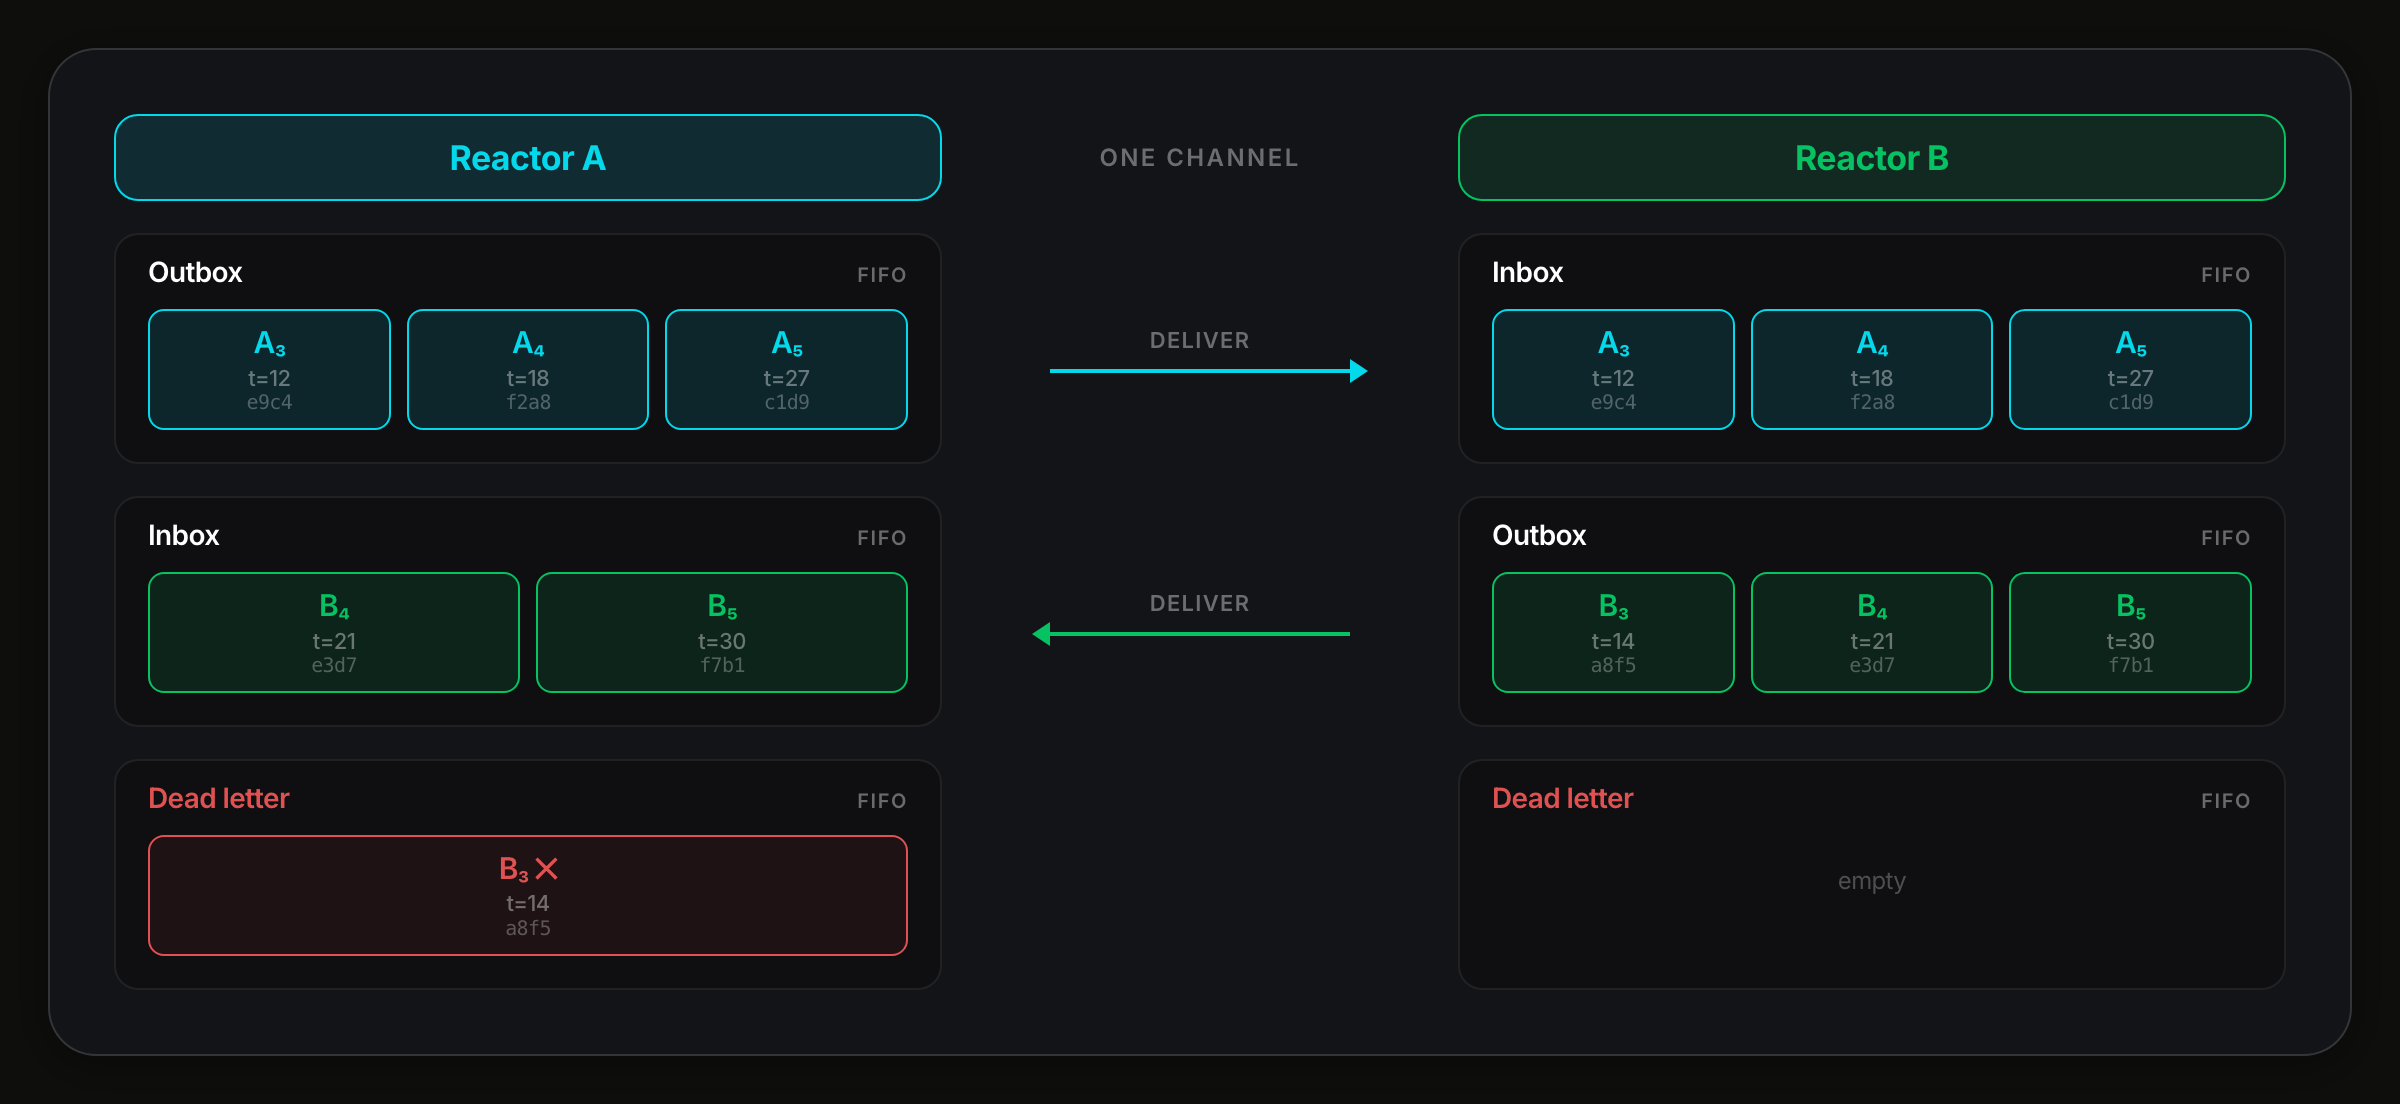
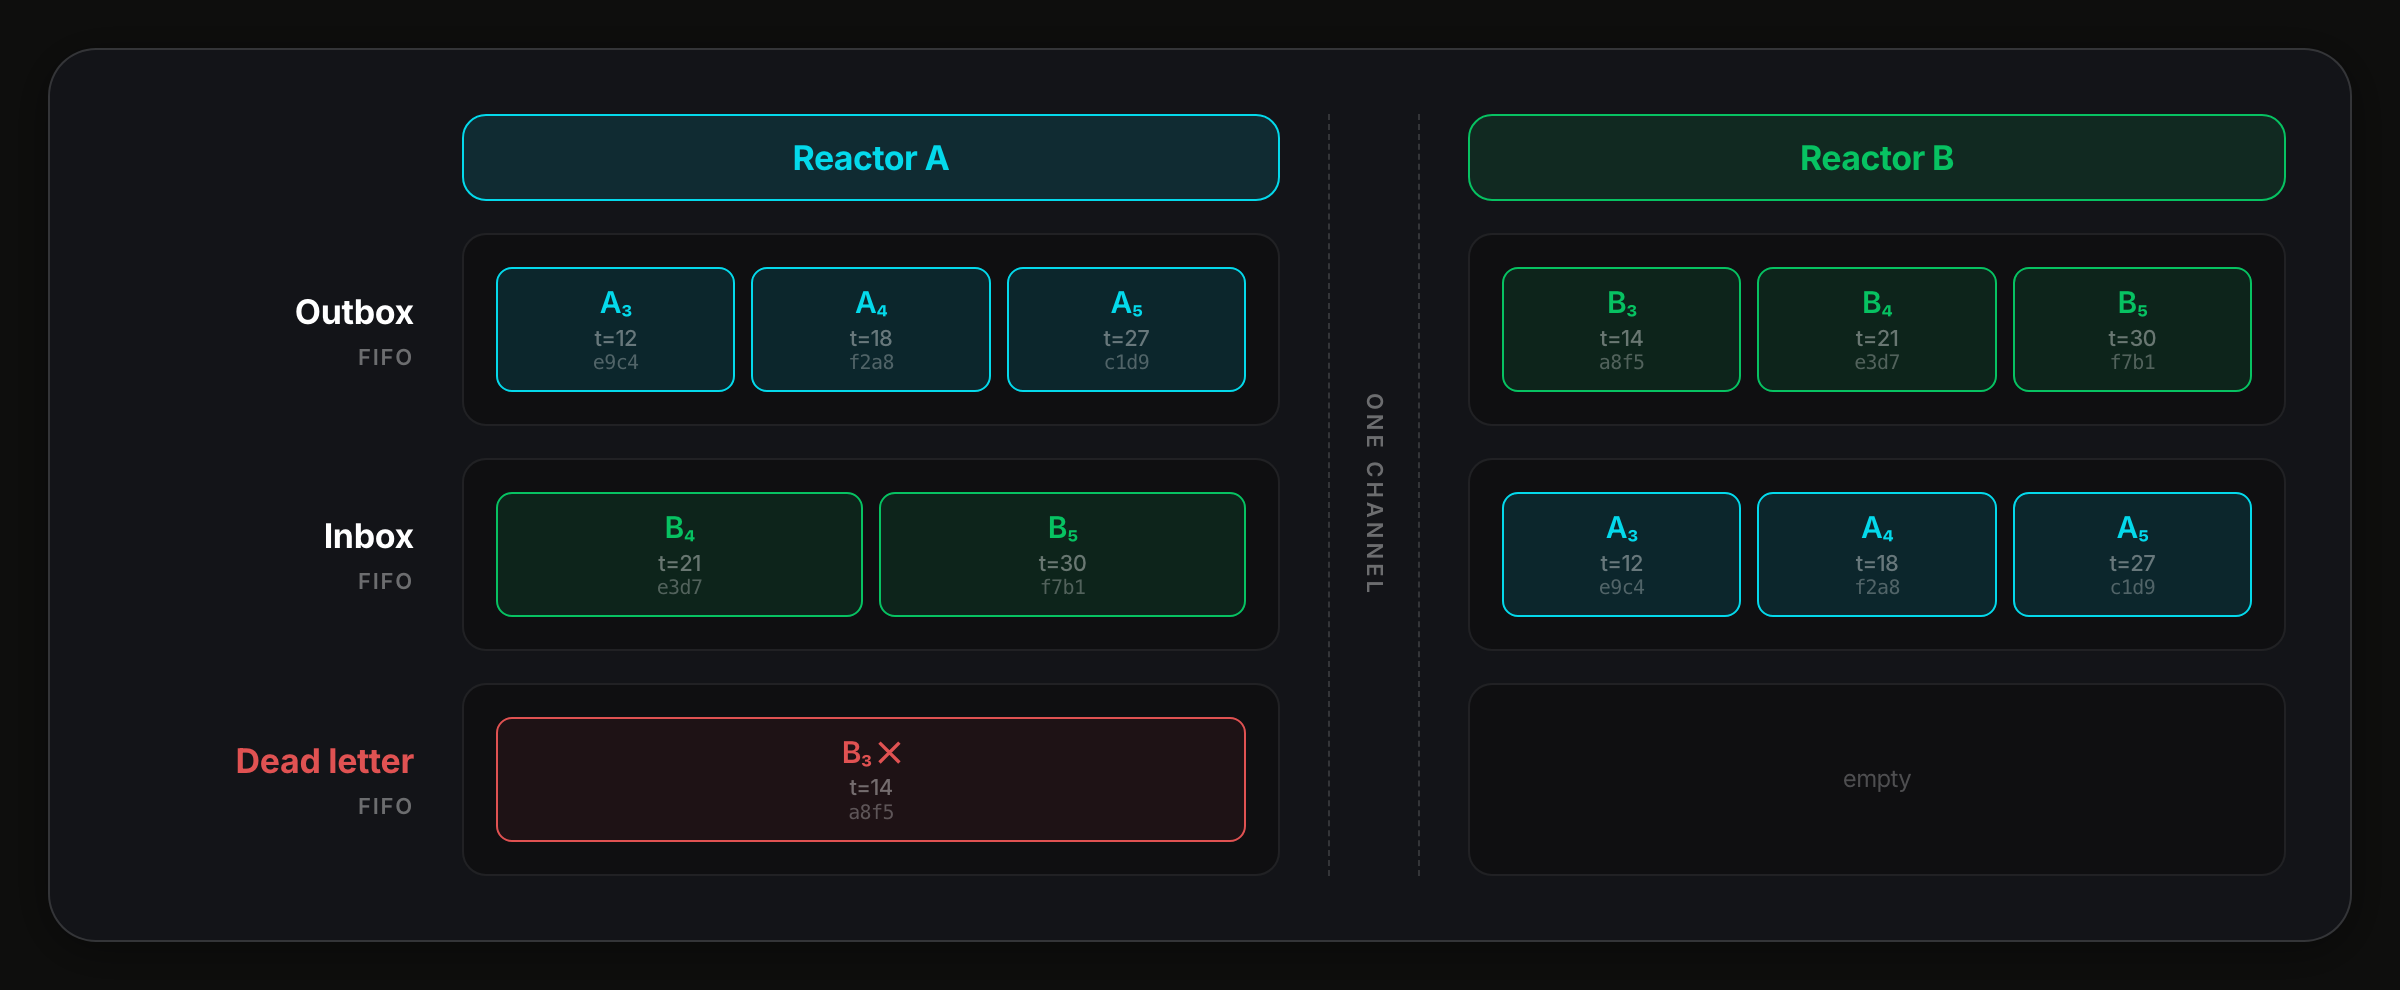
rebuild: mailbox kinds named once across both Reactors

diff --git a/diagrams/pages/channel-mailbox-breakdown.html b/diagrams/pages/channel-mailbox-breakdown.html
@@ -9,21 +9,42 @@
   <link rel="stylesheet" href="../css/base.css">
   <link rel="stylesheet" href="../css/components.css">
   <style>
-    /* One channel between two Reactors. Reactor A owns the whole left column, Reactor B the
-       whole right, and the rows line up so each mailbox faces its counterpart: A's outbox
-       delivers into B's inbox, B's outbox into A's inbox. Operations keep their origin
-       colour — cyan for A, green for B — so an op sitting in the other side's inbox is
-       obvious at a glance. */
+    /* Rows are mailbox kinds, named once in the left column so each label governs both
+       Reactors at once. Columns are the two Reactors, separated by the single channel they
+       share. Operations keep their origin colour — cyan for A, green for B — so the other
+       side's ops sitting in an inbox read at a glance without needing delivery arrows. */
     .frame { max-width: 1200px; }
     .card { height: auto; }
     .card-body { flex: none; }
 
     .wire {
       display: grid;
-      grid-template-columns: 1fr 210px 1fr;
+      grid-template-columns: 150px 1fr 46px 1fr;
       row-gap: var(--space-md);
       column-gap: var(--space-lg);
       align-items: stretch;
+    }
+
+    /* Column 1: the mailbox kind, stated once per row */
+    .kind {
+      grid-column: 1;
+      align-self: center;
+      text-align: right;
+    }
+    .kind-name {
+      font-size: 17px;
+      font-weight: var(--font-weight-bold);
+      color: var(--text-primary);
+      letter-spacing: -0.01em;
+    }
+    .kind.dead .kind-name { color: #e05252; }
+    .kind-sub {
+      font-size: 11px;
+      font-weight: var(--font-weight-semibold);
+      letter-spacing: 0.08em;
+      text-transform: uppercase;
+      color: var(--text-muted);
+      margin-top: 2px;
     }
 
     /* Reactor headers */
@@ -37,49 +58,44 @@
     }
     .side-head.a { color: var(--accent-cyan);  border-color: var(--accent-cyan);  background: var(--accent-cyan-bg); }
     .side-head.b { color: var(--accent-green); border-color: var(--accent-green); background: var(--accent-green-bg); }
-    .ch-head {
-      align-self: center;
-      text-align: center;
-      font-size: 12px;
+
+    /* The one channel the pair shares, running the full height between them */
+    .channel {
+      grid-column: 3;
+      grid-row: 1 / 5;
+      justify-self: center;
+      width: 100%;
+      display: flex;
+      align-items: center;
+      justify-content: center;
+      border-left: 1px dashed var(--border-glass);
+      border-right: 1px dashed var(--border-glass);
+    }
+    .channel span {
+      writing-mode: vertical-rl;
+      text-orientation: mixed;
+      font-size: 11px;
       font-weight: var(--font-weight-semibold);
+      letter-spacing: 0.18em;
       text-transform: uppercase;
-      letter-spacing: 0.1em;
       color: var(--text-muted);
     }
 
-    /* Mailboxes */
+    /* Mailbox contents */
     .mb {
       border: 1px solid var(--border-subtle);
       border-radius: var(--radius-md);
       background: rgba(0, 0, 0, 0.25);
-      padding: var(--space-sm) var(--space-md) var(--space-md);
-    }
-    .mb-head {
+      padding: var(--space-md);
       display: flex;
-      align-items: baseline;
-      justify-content: space-between;
-      margin-bottom: var(--space-sm);
+      align-items: center;
     }
-    .mb-name {
-      font-size: 14px;
-      font-weight: var(--font-weight-semibold);
-      color: var(--text-primary);
-    }
-    .fifo {
-      font-size: 10px;
-      font-weight: var(--font-weight-semibold);
-      letter-spacing: 0.08em;
-      color: var(--text-muted);
-    }
-    .mb.dead .mb-name { color: #e05252; }
-
-    /* Operation chips */
-    .ops { display: flex; gap: var(--space-sm); }
+    .ops { display: flex; gap: var(--space-sm); width: 100%; }
     .op {
       flex: 1;
       border: 1px solid;
       border-radius: var(--radius-sm, 8px);
-      padding: 7px 4px;
+      padding: 8px 4px;
       text-align: center;
       font-size: 15px;
       font-weight: var(--font-weight-semibold);
@@ -104,40 +120,11 @@
       opacity: 0.75;
     }
     .empty {
+      width: 100%;
       font-size: 12px;
       color: var(--text-muted);
       text-align: center;
-      padding: 14px 0;
       opacity: 0.7;
-    }
-
-    /* Channel arrows, one per mailbox row */
-    .ch {
-      align-self: center;
-      display: flex;
-      flex-direction: column;
-      align-items: center;
-      gap: 6px;
-    }
-    .ch-label {
-      font-size: 11px;
-      font-weight: var(--font-weight-semibold);
-      color: var(--text-muted);
-      text-transform: uppercase;
-      letter-spacing: 0.06em;
-    }
-    .ch-line { width: 150px; height: 2px; position: relative; }
-    .ch-line.right { background: var(--accent-cyan); }
-    .ch-line.right::after {
-      content: ''; position: absolute; left: 100%; top: 50%; transform: translateY(-50%);
-      border-top: 6px solid transparent; border-bottom: 6px solid transparent;
-      border-left: 9px solid var(--accent-cyan);
-    }
-    .ch-line.left { background: var(--accent-green); }
-    .ch-line.left::before {
-      content: ''; position: absolute; right: 100%; top: 50%; transform: translateY(-50%);
-      border-top: 6px solid transparent; border-bottom: 6px solid transparent;
-      border-right: 9px solid var(--accent-green);
     }
   </style>
 </head>
@@ -147,47 +134,25 @@
       <div class="card-body">
         <div class="wire">
 
-          <!-- row 1: who owns each side -->
+          <!-- row 1: the two Reactors, and the channel between them -->
+          <div></div>
           <div class="side-head a">Reactor A</div>
-          <div class="ch-head">one channel</div>
+          <div class="channel"><span>one channel</span></div>
           <div class="side-head b">Reactor B</div>
 
-          <!-- row 2: A's outbox delivers into B's inbox -->
+          <!-- row 2 -->
+          <div class="kind">
+            <div class="kind-name">Outbox</div>
+            <div class="kind-sub">FIFO</div>
+          </div>
           <div class="mb">
-            <div class="mb-head"><span class="mb-name">Outbox</span><span class="fifo">FIFO</span></div>
             <div class="ops">
               <div class="op a">A&#8323;<span class="ts">t=12</span><span class="hash">e9c4</span></div>
               <div class="op a">A&#8324;<span class="ts">t=18</span><span class="hash">f2a8</span></div>
               <div class="op a">A&#8325;<span class="ts">t=27</span><span class="hash">c1d9</span></div>
             </div>
           </div>
-          <div class="ch">
-            <div class="ch-label">deliver</div>
-            <div class="ch-line right"></div>
-          </div>
           <div class="mb">
-            <div class="mb-head"><span class="mb-name">Inbox</span><span class="fifo">FIFO</span></div>
-            <div class="ops">
-              <div class="op a">A&#8323;<span class="ts">t=12</span><span class="hash">e9c4</span></div>
-              <div class="op a">A&#8324;<span class="ts">t=18</span><span class="hash">f2a8</span></div>
-              <div class="op a">A&#8325;<span class="ts">t=27</span><span class="hash">c1d9</span></div>
-            </div>
-          </div>
-
-          <!-- row 3: B's outbox delivers into A's inbox — B3 never arrives -->
-          <div class="mb">
-            <div class="mb-head"><span class="mb-name">Inbox</span><span class="fifo">FIFO</span></div>
-            <div class="ops">
-              <div class="op b">B&#8324;<span class="ts">t=21</span><span class="hash">e3d7</span></div>
-              <div class="op b">B&#8325;<span class="ts">t=30</span><span class="hash">f7b1</span></div>
-            </div>
-          </div>
-          <div class="ch">
-            <div class="ch-label">deliver</div>
-            <div class="ch-line left"></div>
-          </div>
-          <div class="mb">
-            <div class="mb-head"><span class="mb-name">Outbox</span><span class="fifo">FIFO</span></div>
             <div class="ops">
               <div class="op b">B&#8323;<span class="ts">t=14</span><span class="hash">a8f5</span></div>
               <div class="op b">B&#8324;<span class="ts">t=21</span><span class="hash">e3d7</span></div>
@@ -195,16 +160,36 @@
             </div>
           </div>
 
-          <!-- row 4: what could not be applied -->
-          <div class="mb dead">
-            <div class="mb-head"><span class="mb-name">Dead letter</span><span class="fifo">FIFO</span></div>
+          <!-- row 3: each side holds what the other sent -->
+          <div class="kind">
+            <div class="kind-name">Inbox</div>
+            <div class="kind-sub">FIFO</div>
+          </div>
+          <div class="mb">
+            <div class="ops">
+              <div class="op b">B&#8324;<span class="ts">t=21</span><span class="hash">e3d7</span></div>
+              <div class="op b">B&#8325;<span class="ts">t=30</span><span class="hash">f7b1</span></div>
+            </div>
+          </div>
+          <div class="mb">
+            <div class="ops">
+              <div class="op a">A&#8323;<span class="ts">t=12</span><span class="hash">e9c4</span></div>
+              <div class="op a">A&#8324;<span class="ts">t=18</span><span class="hash">f2a8</span></div>
+              <div class="op a">A&#8325;<span class="ts">t=27</span><span class="hash">c1d9</span></div>
+            </div>
+          </div>
+
+          <!-- row 4: B3 could not be applied, so it never reached A's inbox -->
+          <div class="kind dead">
+            <div class="kind-name">Dead letter</div>
+            <div class="kind-sub">FIFO</div>
+          </div>
+          <div class="mb">
             <div class="ops">
               <div class="op failed">B&#8323; &#10005;<span class="ts">t=14</span><span class="hash">a8f5</span></div>
             </div>
           </div>
-          <div class="ch"></div>
-          <div class="mb dead">
-            <div class="mb-head"><span class="mb-name">Dead letter</span><span class="fifo">FIFO</span></div>
+          <div class="mb">
             <div class="empty">empty</div>
           </div>
 
